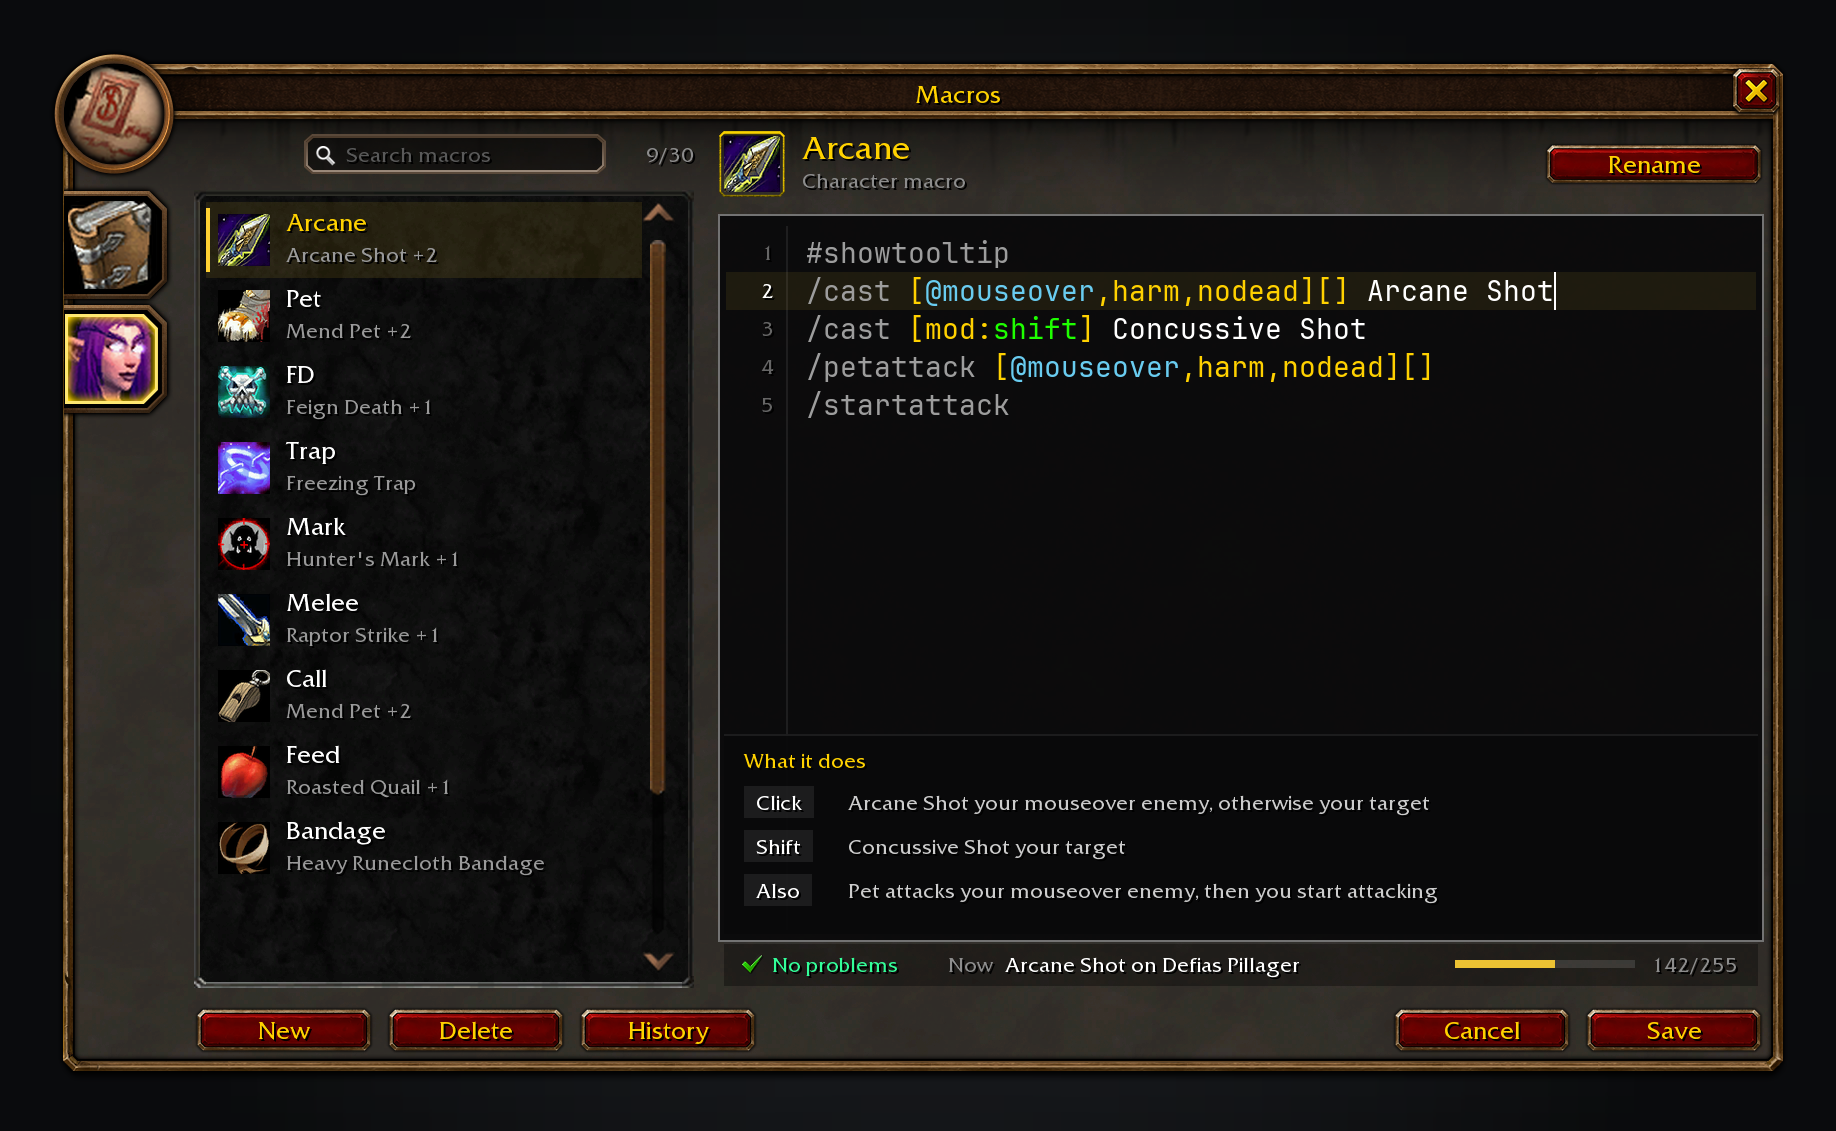
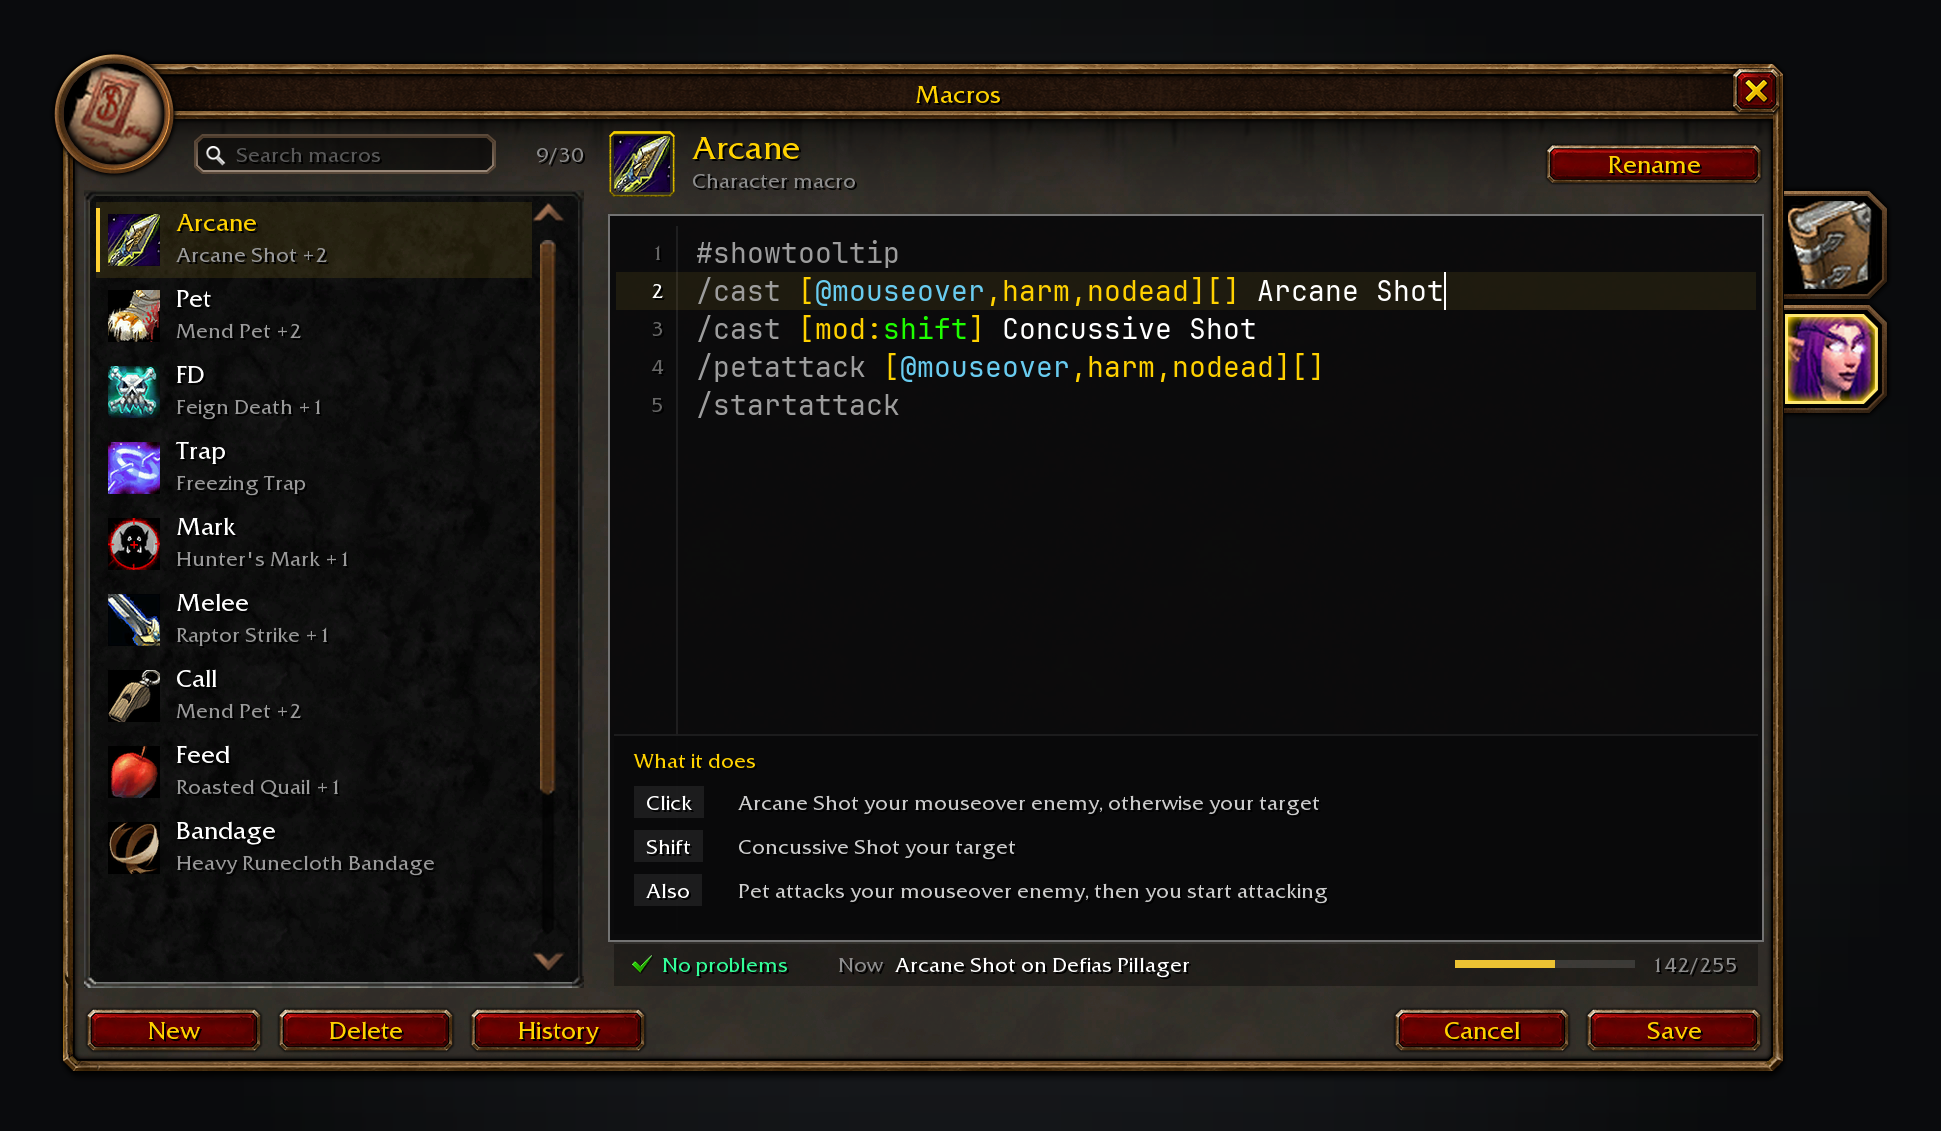
fix: hang the side tabs off the window's right edge (#76)
The General and character side tabs now hang off the window's right
edge, as the game's spellbook and Professions tabs do, instead of a rail
inside the left edge. The list returns to the left inset and the editor
column takes the freed width.

- `UI/MacroWindow.lua`: tab anchored `TOPLEFT` on the frame's
`TOPRIGHT`; left rail removed.
- Sim scenario asserts the tabs sit at the window's right edge.
- Screenshot scene and visual audit draw and allow the tabs outside the
right edge.

![window](https://raw.githubusercontent.com/cjber/macro-assist-forever/dfd4ac9fa1249c57636daa0b50076799ee5818d5/docs/screenshots/window.png)

![completion](https://raw.githubusercontent.com/cjber/macro-assist-forever/dfd4ac9fa1249c57636daa0b50076799ee5818d5/docs/screenshots/completion.png)

![history](https://raw.githubusercontent.com/cjber/macro-assist-forever/dfd4ac9fa1249c57636daa0b50076799ee5818d5/docs/screenshots/history.png)

In game after `/reload`: open `/m`, the two tabs hang off the right edge
and switch the list.

Closes #75
Refs #53 (reverses its tab placement)

🤖 Generated with [Claude Code](https://claude.com/claude-code)

https://claude.ai/code/session_01BVTqQ2MnqNTB4s9TCGfDpH

diff --git a/tools/screenshots.py b/tools/screenshots.py
@@ -57,12 +57,11 @@ WINDOW_WIDTH = number("WINDOW_WIDTH")
 WINDOW_HEIGHT = number("WINDOW_HEIGHT")
 INSET_LEFT = number("INSET_LEFT")
 INSET_RIGHT = number("INSET_RIGHT")
-SIDE_TAB_WIDTH = number("SIDE_TAB_WIDTH")
-LIST_LEFT = INSET_LEFT + SIDE_TAB_WIDTH
+LIST_LEFT = INSET_LEFT
 LIST_TOP = number("LIST_TOP")
 LIST_WIDTH = number("LIST_WIDTH")
 LIST_HEIGHT = number("LIST_HEIGHT")
-SIDE_TAB_EDGE = number("SIDE_TAB_EDGE")
+SIDE_TAB_X = number("SIDE_TAB_X")
 SIDE_TAB_TOP = number("SIDE_TAB_TOP")
 SIDE_TAB_GAP = number("SIDE_TAB_GAP")
 HEADER_TOP = number("HEADER_TOP")
@@ -677,7 +676,8 @@ def status_bar(canvas, x, y, w, length, now, data):
 
 
 def window(ui, *, body, current_line, caret_column, data, completion=None):
-    canvas = ui.canvas(WINDOW_WIDTH + 2 * X, WINDOW_HEIGHT + 2 * Y)
+    rail_width, _ = side_tab_extent(ui)
+    canvas = ui.canvas(WINDOW_WIDTH + 2 * X + rail_width, WINDOW_HEIGHT + 2 * Y)
     background(canvas, X, Y, WINDOW_WIDTH, WINDOW_HEIGHT)
     # The search box sits beside the portrait; the list runs from below it down to the footer.
     wowmock.search_box(
@@ -798,10 +798,11 @@ def window(ui, *, body, current_line, caret_column, data, completion=None):
         "Cancel",
         h=BUTTON_HEIGHT,
     )
-    # The metal frame, portrait, title and close button sit over the contents; the side tabs join its left rail.
+    # The metal frame, portrait, title and close button sit over the contents; the side tabs hang off its right edge.
     wowmock.portrait_frame_art(canvas, X, Y, WINDOW_WIDTH, WINDOW_HEIGHT, IDENTITY_ICON, "Macros")
-    # The side rail sits inside the window's left edge, beside the list it filters.
-    side_tabs(canvas, X + SIDE_TAB_EDGE, Y + SIDE_TAB_TOP, TAB_SELECTED)
+    # As in Blizzard's spellbook and Professions windows, the tabs start at the frame's right edge and run into
+    # the margin, leaving the list and editor the whole window width.
+    side_tabs(canvas, X + WINDOW_WIDTH + SIDE_TAB_X, Y + SIDE_TAB_TOP, TAB_SELECTED)
     # The popup is drawn last, over the editor text, as the editor's popup is in game.
     if completion:
         draw_completion(canvas, completion, caret_column, text_x, text_y, text_w)
@@ -899,8 +900,8 @@ def window_layout(ui):
         {
             "name": "tabs",
             "role": "tabs",
-            "edge": "left",
-            "x": X + SIDE_TAB_EDGE,
+            "edge": "outside-right",
+            "x": X + WINDOW_WIDTH + SIDE_TAB_X,
             "y": Y + SIDE_TAB_TOP,
             "w": rail_width,
             "h": rail_height,

diff --git a/tools/visual_audit.py b/tools/visual_audit.py
@@ -21,15 +21,22 @@ def check_scene(scene):
     for widget in widgets:
         x, y = widget["x"], widget["y"]
         right, bottom = x + widget["w"], y + widget["h"]
-        inside = x >= frame["x"] and y >= frame["y"] and bottom <= frame["y"] + frame["h"]
-        # A side rail belongs on the frame's own edge (docs/ui-composition.md): it starts inside the frame and
-        # runs past it, so only its vertical bounds must stay within the frame.
-        if widget.get("edge") == "right":
-            inside = inside and x < frame["x"] + frame["w"]
-        elif widget.get("edge") == "left":
-            inside = inside and right > frame["x"]
+        edge = widget.get("edge")
+        if edge == "outside-right":
+            # Blizzard's side tabs hang off the frame's right edge (the spellbook, Professions and Housing
+            # windows all do this), so the widget starts at that edge and must only keep the frame's vertical
+            # bounds. Every other widget stays inside the frame.
+            inside = x >= frame["x"] + frame["w"] - 2 and y >= frame["y"] and bottom <= frame["y"] + frame["h"]
         else:
-            inside = inside and right <= frame["x"] + frame["w"]
+            inside = x >= frame["x"] and y >= frame["y"] and bottom <= frame["y"] + frame["h"]
+            # A side rail belongs on the frame's own edge (docs/ui-composition.md): it starts inside the frame
+            # and runs past it, so only its vertical bounds must stay within the frame.
+            if edge == "right":
+                inside = inside and x < frame["x"] + frame["w"]
+            elif edge == "left":
+                inside = inside and right > frame["x"]
+            else:
+                inside = inside and right <= frame["x"] + frame["w"]
         if not inside:
             errors.append(f"{widget['name']} lies outside the frame")
     interactive = [widget for widget in widgets if widget["role"] in {"button", "tabs", "input"}]

diff --git a/README.md b/README.md
@@ -11,7 +11,7 @@
 
 ## Features
 
-- **Every macro in one searchable list.** General and character tabs sit beside the list they filter, and each macro shows its icon, name and a short summary of its main action with a count of the other cases. The selected row has a soft gold fill and left bar, and the count sits beside the search box, which filters by name or summary as you type.
+- **Every macro in one searchable list.** General and character tabs hang off the window's right edge, as in the game's spellbook, and each macro shows its icon, name and a short summary of its main action with a count of the other cases. The selected row has a soft gold fill and left bar, and the count sits beside the search box, which filters by name or summary as you type.
 - **A real editor.** The macro text uses JetBrains Mono on a dark code panel, with a line-number gutter, a highlight on the current line, and colour for commands, conditions, units and spells.
 - **A plain-English "What it does" panel.** The bottom of the code panel shows one row per click and modifier branch, read from the macro's own parse, and hides when there is nothing it can explain.
 - **Completions as you type.** Type `/` for a command, `[` for a condition, `@` for a unit or start a spell name. Up and Down move through the suggestions, Tab inserts one, and each suggestion shows its live value as a yes or no tag.

diff --git a/docs/curseforge.md b/docs/curseforge.md
@@ -22,7 +22,7 @@ These images are generated previews of the Macro Assist UI.
 
 ## Features
 
-- **Every macro in one searchable list.** General and character tabs sit beside the list they filter, and each macro shows its icon, name and a short summary of its main action with a count of the other cases. The count sits beside the search box, which filters by name or summary as you type.
+- **Every macro in one searchable list.** General and character tabs hang off the window's right edge, as in the game's spellbook, and each macro shows its icon, name and a short summary of its main action with a count of the other cases. The count sits beside the search box, which filters by name or summary as you type.
 - **A real editor.** The macro text uses JetBrains Mono on a dark code panel, with a line-number gutter, a current-line highlight, and colour for commands, conditions, units and spells.
 - **A plain-English "What it does" panel.** The bottom of the code panel shows one row per click and modifier branch, read from the macro's own parse, and hides when there is nothing it can explain.
 - **Completions with live values.** Type `/` for a command, `[` for a condition, `@` for a unit or a spell name; Up and Down move the suggestions, Tab inserts one, and each shows its value in the game right now. The spellbook supplies your spell names and the ranks you know.

diff --git a/CHANGELOG.md b/CHANGELOG.md
@@ -5,6 +5,11 @@ All notable changes to Macro Assist Forever are documented here. The format is b
 
 ## [Unreleased]
 
+### Fixed
+
+- **The General and character tabs hang off the window's right edge again**, as they do in the game's spellbook and
+  Professions windows. The list and editor use the window's full width.
+
 ## [0.2.1] - 2026-11-10
 
 - **Forever Core now comes in the same download.** This addon needs Forever Core, and until Forever Core has its own CurseForge page every Forever addon's download carries a copy of it, so the addon loads with nothing else to install.
